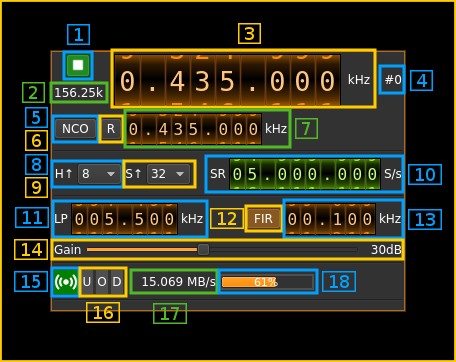
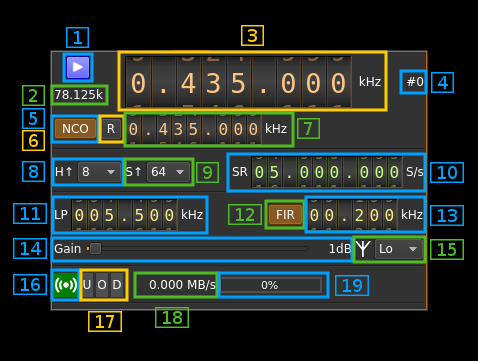
LimeSDR output: updated documentation

diff --git a/plugins/samplesink/limesdroutput/readme.md b/plugins/samplesink/limesdroutput/readme.md
@@ -103,22 +103,28 @@ Use the wheels to adjust the bandwidth of the hardware TSP FIR filter. Pressing 
 
 Use this slider to adjust the global gain of the Tx chain. LimeSuite software automatically set optimal values of the amplifiers to achive this global gain. This gain can be set between 0 and 70 dB in 1 dB steps. The value in dB appears at the right of the slider.
 
-<h3>15: Stream status indicator</h3>
+<h3>15: Antenna selection</h3>
+
+  - ** No **: no output
+  - ** Lo **: Tx low range 30 MHz to 1.9 GHz
+  - ** Hi **: Tx high range: 2 GHz and above
+
+<h3>16: Stream status indicator</h3>
 
 This label turns green when status can be obtained from the current stream. Usually this means that the stream is up and running but not necessarily streaming data. The various status elements appear next on the same line (16, 17, 18)
 
-<h3>16: Stream warning indicators</h3>
+<h3>17: Stream warning indicators</h3>
 
   - **U**: turns red if stream experiences underruns
   - **O**: turns red if stream experiences overruns  
   - **P**: turns red if stream experiences packet drop outs
   
-<h3>17: Stream global (all Tx) throughput in MB/s</h3>
+<h3>18: Stream global (all Tx) throughput in MB/s</h3>
 
 This is the stream throughput in MB/s and is usually about 3 times the sample rate for a single stream and 6 times for a dual Tx stream. This is due to the fact that 12 bits samples are used and although they are represented as 16 bit values only 12 bita travel on the USB link.
 
 &#9888; it has been found that in practice to get a clean output the gain should not exceed ~4dB with standard levels in the channel plugins.
 
-<h3>18: FIFO status</h3>
+<h3>19: FIFO status</h3>
 
-This is the fill percentage of the Tx FIFO in the LimeSuite interface. In normal conditions this should be ~100%.
+This is the fill percentage of the Tx FIFO in the LimeSuite interface. In normal conditions this should be ~100%. On the picture the Tx is not started.
